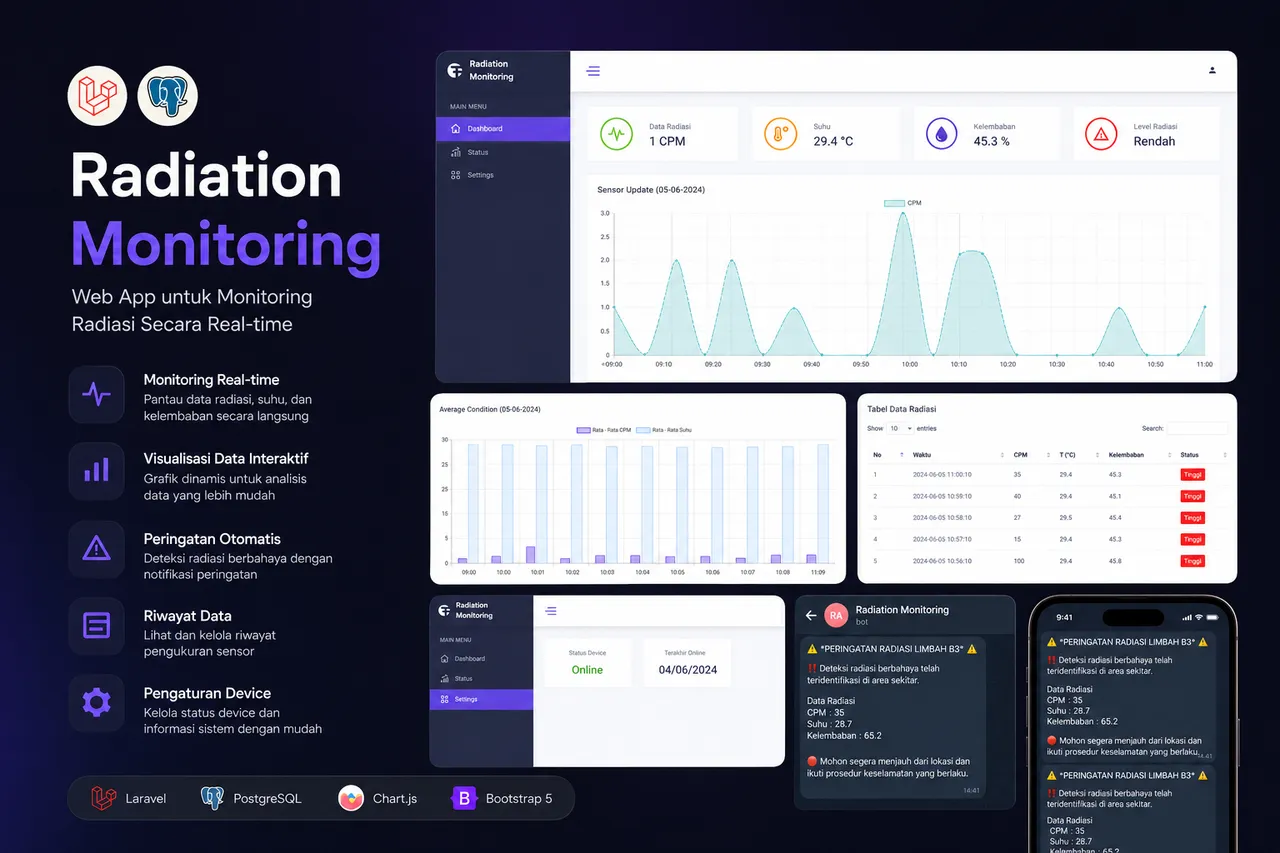
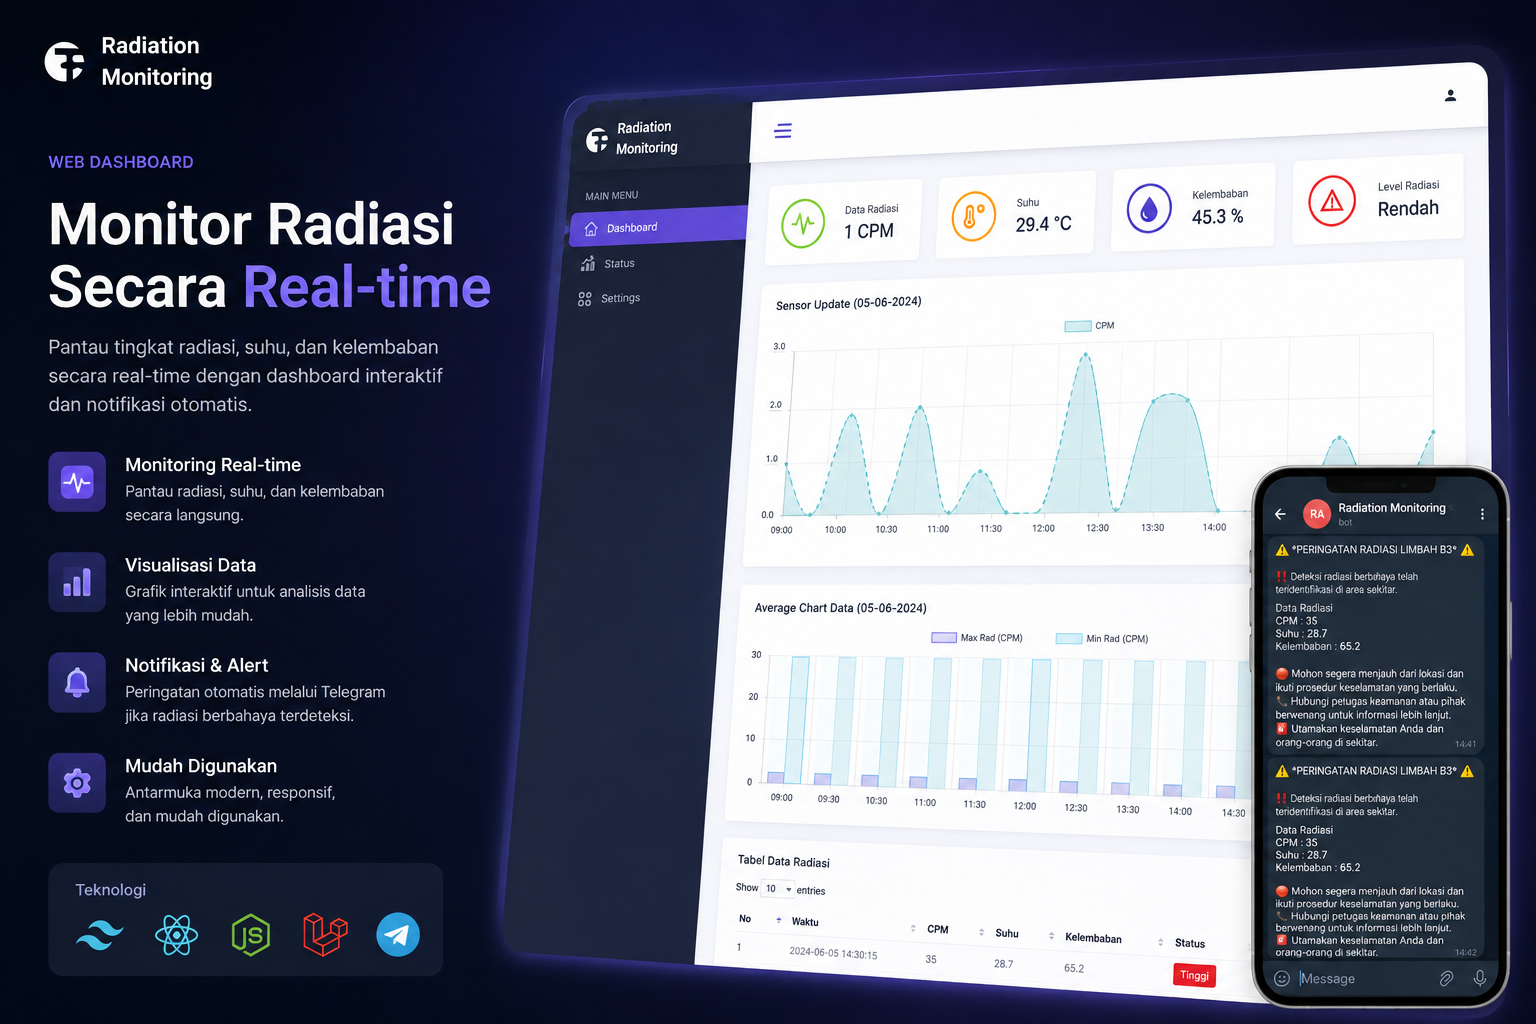
feat: galleries for IntervalFit, StuntZilla, RadMonitor + mobile-fit carousel
- Convert 24 screenshots to WebP (~620KB total), drop source PNGs/JPEGs
- Wire gallery arrays: IntervalFit 11, StuntZilla 9, RadMonitor 7 images
- Carousel stage wraps image ratio (object-contain, dark backdrop),
  capped min(65vh,540px) so portrait shots fit without cropping

diff --git a/src/data/content.ts b/src/data/content.ts
@@ -263,6 +263,15 @@ export const PROJECTS: Project[] = [
     chip: "bg-emerald-500/10 text-emerald-600 dark:text-emerald-400 border-emerald-500/20",
     gradient: "from-emerald-500/15 via-emerald-500/5 to-transparent",
     image: "/radmonitor/preview.webp",
+    gallery: [
+      "/radmonitor/preview.webp",
+      "/radmonitor/Screenshot_20260803_111014.webp",
+      "/radmonitor/Screenshot_20260803_111032.webp",
+      "/radmonitor/Screenshot_20260803_111048.webp",
+      "/radmonitor/Screenshot_20260803_111055.webp",
+      "/radmonitor/Screenshot_20260803_111102.webp",
+      "/radmonitor/Screenshot_20260803_111117.webp",
+    ],
     links: { source: "https://github.com/hafizhsul/MonitorRad" },
   },
   {
@@ -279,6 +288,17 @@ export const PROJECTS: Project[] = [
     chip: "bg-indigo-500/10 text-indigo-600 dark:text-indigo-400 border-indigo-500/20",
     gradient: "from-indigo-500/15 via-indigo-500/5 to-transparent",
     image: "/stuntzilla/preview.webp",
+    gallery: [
+      "/stuntzilla/preview.webp",
+      "/stuntzilla/Screenshot_20260803_104151.webp",
+      "/stuntzilla/Screenshot_20260803_104206.webp",
+      "/stuntzilla/Screenshot_20260803_104230.webp",
+      "/stuntzilla/Screenshot_20260803_104245.webp",
+      "/stuntzilla/Screenshot_20260803_104304.webp",
+      "/stuntzilla/Screenshot_20260803_104313.webp",
+      "/stuntzilla/Screenshot_20260803_104329.webp",
+      "/stuntzilla/Screenshot_20260803_104345.webp",
+    ],
   },
   {
     id: "intervalfit",
@@ -294,6 +314,19 @@ export const PROJECTS: Project[] = [
     chip: "bg-rose-500/10 text-rose-600 dark:text-rose-400 border-rose-500/20",
     gradient: "from-rose-500/15 via-rose-500/5 to-transparent",
     image: "/intervalfit/preview.webp",
+    gallery: [
+      "/intervalfit/preview.webp",
+      "/intervalfit/Screenshot_1787474262.webp",
+      "/intervalfit/Screenshot_1787474304.webp",
+      "/intervalfit/Screenshot_1787474307.webp",
+      "/intervalfit/Screenshot_1787474311.webp",
+      "/intervalfit/Screenshot_1787474313.webp",
+      "/intervalfit/Screenshot_1787474324.webp",
+      "/intervalfit/Screenshot_1787474329.webp",
+      "/intervalfit/Screenshot_1787474338.webp",
+      "/intervalfit/Screenshot_1787474342.webp",
+      "/intervalfit/Screenshot_1787474349.webp",
+    ],
     links: { source: "https://github.com/hafizhsul/interval-fit" },
   },
 ];

diff --git a/src/pages/Landing.tsx b/src/pages/Landing.tsx
@@ -1019,7 +1019,7 @@ function ProjectModal({
         </button>
 
         <div className="max-h-[85vh] overflow-y-auto">
-          <div className="relative border-b bg-muted/40">
+          <div className="relative overflow-hidden border-b bg-zinc-950">
             <AnimatePresence initial={false} mode="popLayout">
               <motion.img
                 key={gallery[idx] ?? project.id}
@@ -1038,7 +1038,7 @@ function ProjectModal({
                 animate={{ opacity: 1, x: 0 }}
                 exit={{ opacity: 0 }}
                 transition={{ duration: 0.25, ease: "easeOut" }}
-                className="aspect-[16/10] w-full cursor-grab object-cover active:cursor-grabbing"
+                className="max-h-[min(65vh,540px)] w-full cursor-grab object-contain active:cursor-grabbing"
               />
             </AnimatePresence>
 
